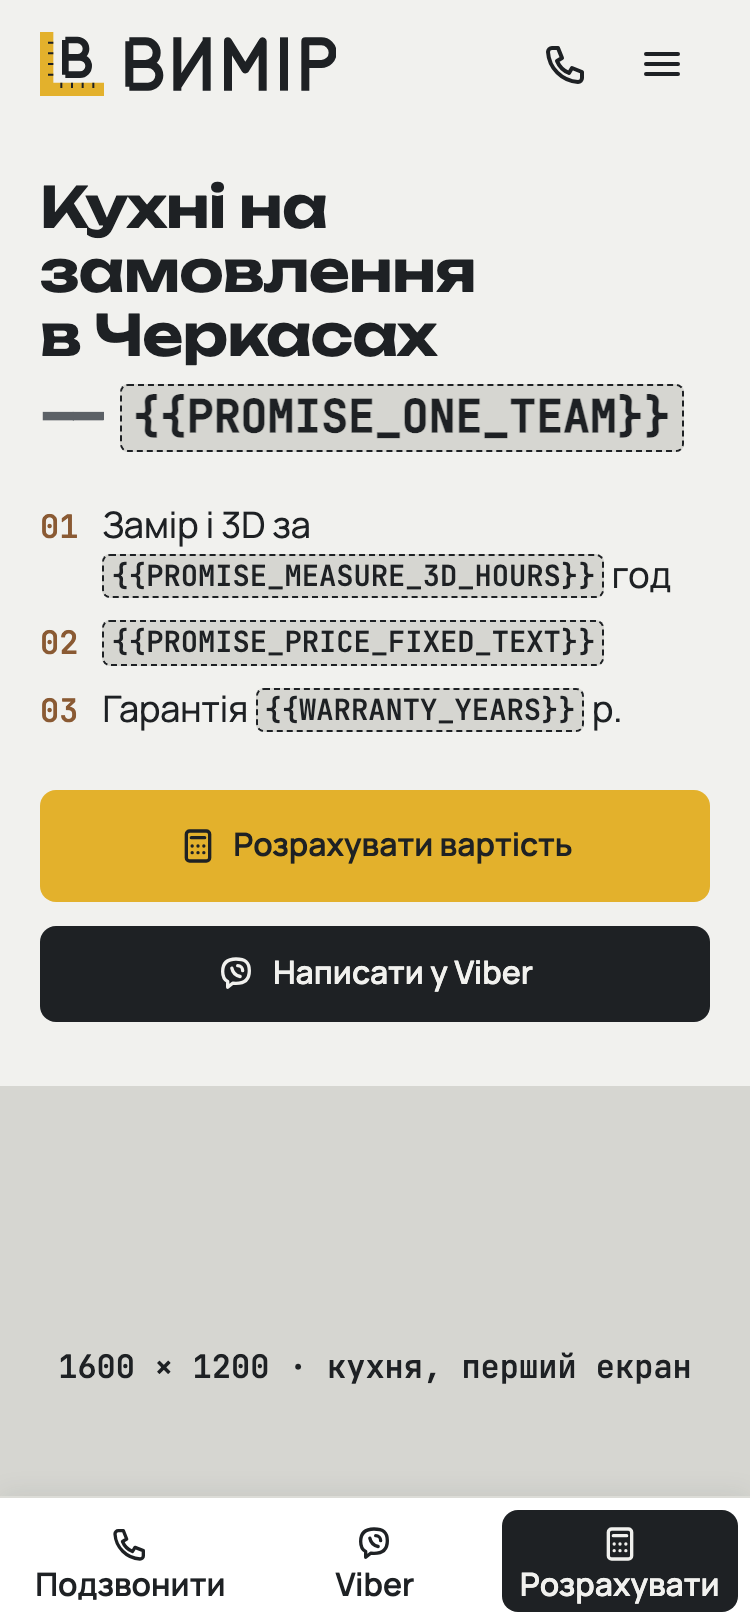
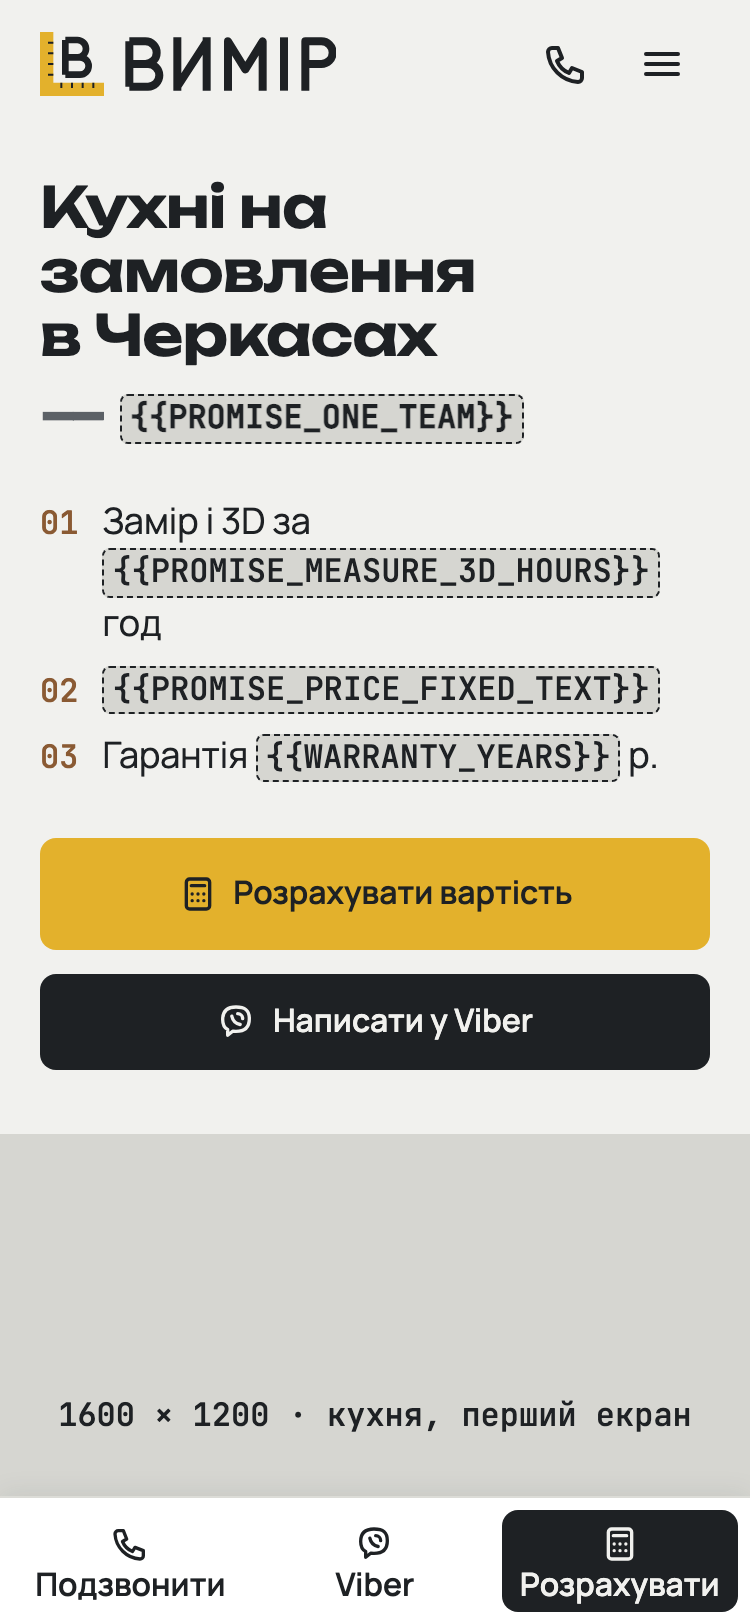
Фаза 2: первый экран на планшете и десктопе, правки по ревью
768 px: фото в контейнере, кнопки в ряд; 1280 px: текст слева, фото справа.
Ревью code-reviewer, исправлено критичное:
- заглушки Fact не меньше 16 px (в т. ч. в H1);
- из description убран невыдуманный срок «за 1 хвилину»;
- фокус-ловушка мобильного меню (inert на фоне), e2e-проверка;
- скрытая нижняя панель не в порядке Tab; постоянная подпись бургера «Меню».

diff --git a/tests/e2e/header.spec.ts b/tests/e2e/header.spec.ts
@@ -22,6 +22,20 @@ test.describe('шапка', () => {
     await expect(menu).toBeHidden();
   });
 
+  test('телефон: при открытом меню Tab не уходит на страницу под ним', async ({ page, isMobile }) => {
+    test.skip(!isMobile, 'только телефон');
+    await page.goto('/');
+    await page.locator('[data-menu-toggle]').click();
+    for (let i = 0; i < 20; i++) {
+      await page.keyboard.press('Tab');
+      // body — переход фокуса на интерфейс браузера после последнего пункта, это нормально
+      const ok = await page.evaluate(
+        () => document.activeElement === document.body || !!document.activeElement?.closest('[data-header]'),
+      );
+      expect(ok).toBe(true);
+    }
+  });
+
   test('десктоп: меню в одну строку, бургера нет', async ({ page, isMobile }) => {
     test.skip(isMobile, 'только десктоп');
     await page.goto('/');
